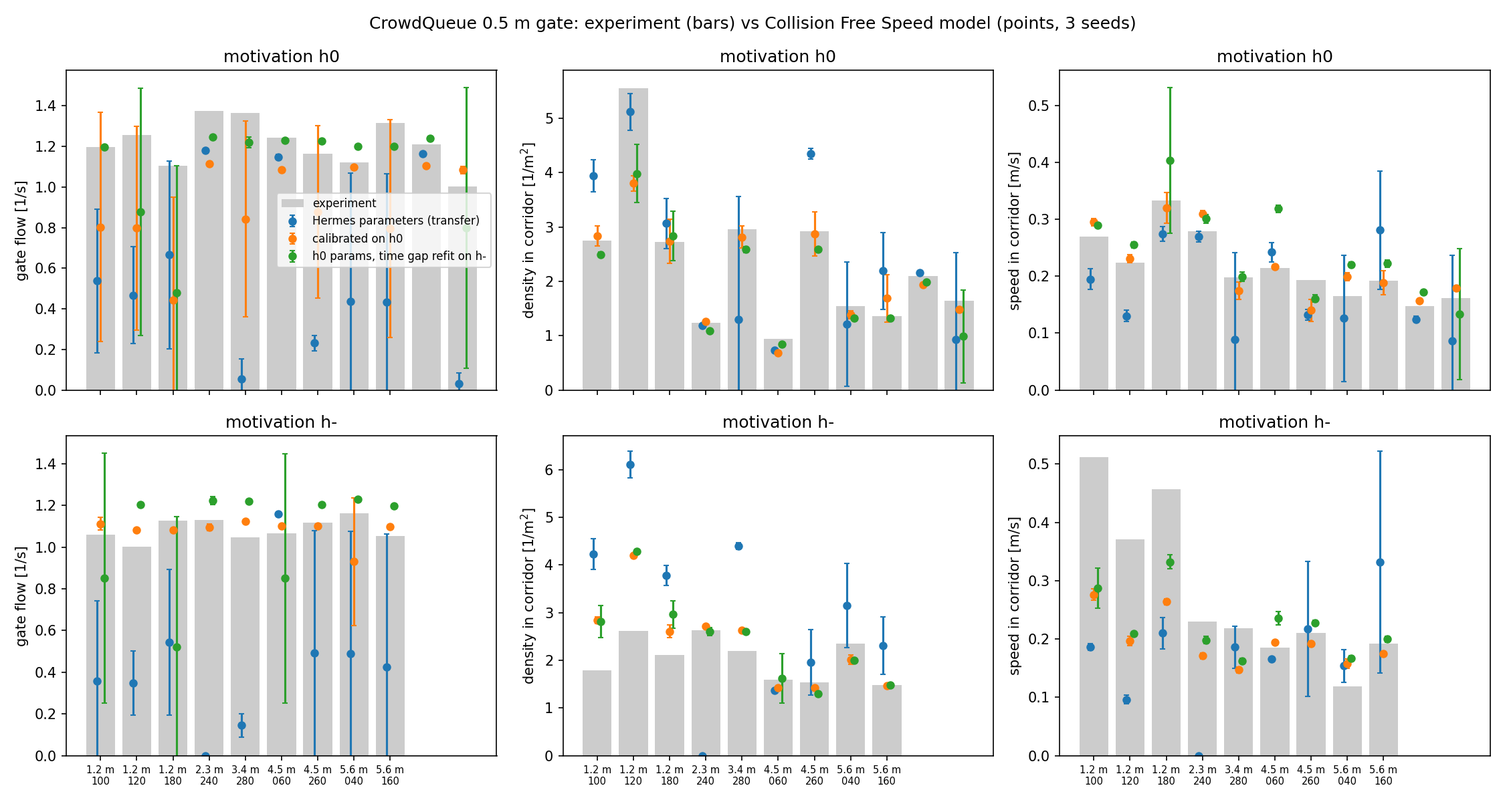
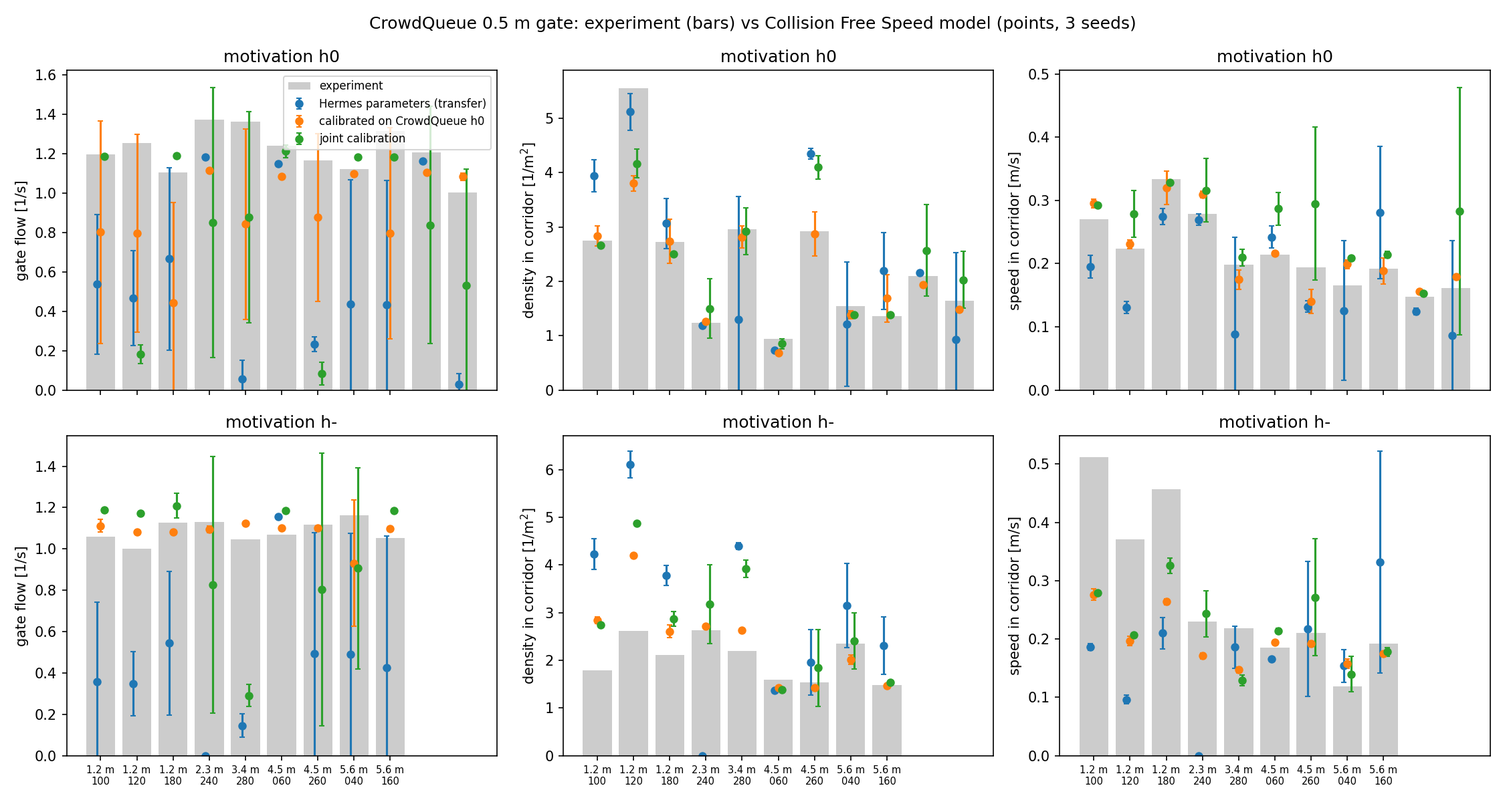
Add semicircle validation, joint calibration and lessons section

diff --git a/public/notes/dakota-calibration/index.html b/public/notes/dakota-calibration/index.html
@@ -32,7 +32,7 @@
   <meta itemprop="description" content="Validation is the step everyone agrees on and few do. We took an open bottleneck experiment, an open model and an open calibration toolkit, and ran the whole procedure, from screening to held-out validation, in a way anyone can repeat.">
   <meta itemprop="datePublished" content="2026-09-05T00:00:00+00:00">
   <meta itemprop="dateModified" content="2026-09-05T00:00:00+00:00">
-  <meta itemprop="wordCount" content="3230">
+  <meta itemprop="wordCount" content="3974">
   <meta name="twitter:card" content="summary">
   <meta name="twitter:title" content="How do you validate a pedestrian model against real data?">
   <meta name="twitter:description" content="Validation is the step everyone agrees on and few do. We took an open bottleneck experiment, an open model and an open calibration toolkit, and ran the whole procedure, from screening to held-out validation, in a way anyone can repeat.">
@@ -282,6 +282,18 @@
                 href="#step-6--a-second-experiment-and-where-the-model-stops"
                 class="hx-flex hx-rounded hx-px-2 hx-py-1.5 hx-text-sm hx-transition-colors [word-break:break-word] hx-cursor-pointer [-webkit-tap-highlight-color:transparent] [-webkit-touch-callout:none] contrast-more:hx-border hx-gap-2 before:hx-opacity-25 before:hx-content-['#'] hx-text-gray-500 hover:hx-bg-gray-100 hover:hx-text-gray-900 dark:hx-text-neutral-400 dark:hover:hx-bg-primary-100/5 dark:hover:hx-text-gray-50 contrast-more:hx-text-gray-900 contrast-more:dark:hx-text-gray-50 contrast-more:hx-border-transparent contrast-more:hover:hx-border-gray-900 contrast-more:dark:hover:hx-border-gray-50"
               >Step 6 — a second experiment, and where the model stops</a>
+            </li>
+          <li>
+              <a
+                href="#step-7--a-third-experiment-without-barriers"
+                class="hx-flex hx-rounded hx-px-2 hx-py-1.5 hx-text-sm hx-transition-colors [word-break:break-word] hx-cursor-pointer [-webkit-tap-highlight-color:transparent] [-webkit-touch-callout:none] contrast-more:hx-border hx-gap-2 before:hx-opacity-25 before:hx-content-['#'] hx-text-gray-500 hover:hx-bg-gray-100 hover:hx-text-gray-900 dark:hx-text-neutral-400 dark:hover:hx-bg-primary-100/5 dark:hover:hx-text-gray-50 contrast-more:hx-text-gray-900 contrast-more:dark:hx-text-gray-50 contrast-more:hx-border-transparent contrast-more:hover:hx-border-gray-900 contrast-more:dark:hover:hx-border-gray-50"
+              >Step 7 — a third experiment, without barriers</a>
+            </li>
+          <li>
+              <a
+                href="#what-changed-between-the-calibrations-and-what-it-means-for-simulations"
+                class="hx-flex hx-rounded hx-px-2 hx-py-1.5 hx-text-sm hx-transition-colors [word-break:break-word] hx-cursor-pointer [-webkit-tap-highlight-color:transparent] [-webkit-touch-callout:none] contrast-more:hx-border hx-gap-2 before:hx-opacity-25 before:hx-content-['#'] hx-text-gray-500 hover:hx-bg-gray-100 hover:hx-text-gray-900 dark:hx-text-neutral-400 dark:hover:hx-bg-primary-100/5 dark:hover:hx-text-gray-50 contrast-more:hx-text-gray-900 contrast-more:dark:hx-text-gray-50 contrast-more:hx-border-transparent contrast-more:hover:hx-border-gray-900 contrast-more:dark:hover:hx-border-gray-50"
+              >What changed between the calibrations, and what it means for simulations</a>
             </li>
           <li>
               <a
@@ -623,6 +635,14 @@
         </a>
       </li>
       <li class="hx-my-2 hx-scroll-my-6 hx-scroll-py-6">
+        <a class="hx-font-semibold hx-inline-block hx-text-gray-500 hover:hx-text-gray-900 dark:hx-text-gray-400 dark:hover:hx-text-gray-300 contrast-more:hx-text-gray-900 contrast-more:hx-underline contrast-more:dark:hx-text-gray-50 hx-w-full hx-break-words" href="#step-7--a-third-experiment-without-barriers">Step 7 — a third experiment, without barriers
+        </a>
+      </li>
+      <li class="hx-my-2 hx-scroll-my-6 hx-scroll-py-6">
+        <a class="hx-font-semibold hx-inline-block hx-text-gray-500 hover:hx-text-gray-900 dark:hx-text-gray-400 dark:hover:hx-text-gray-300 contrast-more:hx-text-gray-900 contrast-more:hx-underline contrast-more:dark:hx-text-gray-50 hx-w-full hx-break-words" href="#what-changed-between-the-calibrations-and-what-it-means-for-simulations">What changed between the calibrations, and what it means for simulations
+        </a>
+      </li>
+      <li class="hx-my-2 hx-scroll-my-6 hx-scroll-py-6">
         <a class="hx-font-semibold hx-inline-block hx-text-gray-500 hover:hx-text-gray-900 dark:hx-text-gray-400 dark:hover:hx-text-gray-300 contrast-more:hx-text-gray-900 contrast-more:hx-underline contrast-more:dark:hx-text-gray-50 hx-w-full hx-break-words" href="#what-we-learned-about-validating">What we learned about validating
         </a>
       </li>
@@ -878,16 +898,35 @@ responses
 </table>
 <p>The largest miss is at 5.0 m, a calibration width: the measured flow jumps above the linear trend there and the model does not follow. Either the widest run is different in a way three scalar observables cannot see, or the model&rsquo;s flow really is linear in the width. That is a question about the model, and now a well-posed one.</p>
 <h2>Step 6 — a second experiment, and where the model stops<span class="hx-absolute -hx-mt-20" id="step-6--a-second-experiment-and-where-the-model-stops"></span>
-    <a href="#step-6--a-second-experiment-and-where-the-model-stops" class="subheading-anchor" aria-label="Permalink for this section"></a></h2><p>A calibration is only validated within the domain it was tested in. To find the edge of that domain we took a second open dataset, the <a href="https://ped.fz-juelich.de/db/doku.php?id=crowdqueue" target="_blank" rel="noopener">CrowdQueue experiment</a> from Wuppertal 2018 (Adrian et al. 2020): the same kind of crowd in front of an entrance, but through a 0.5 m gate instead of a 2.4 to 5 m opening, in corridors from 1.2 to 5.6 m wide, with the participants&rsquo; motivation varied between runs. The archive files carry the full geometry and everyone&rsquo;s starting position, so the simulation starts from the measured first frame of each run.</p>
-<p>First the transfer test: the Hermes parameters, applied to the 21 usable runs without any refitting. The model reproduces the gate flow in five of them and clogs at the funnel in the rest, in three runs to a standstill. The weak, long-range neighbor repulsion that fits a wide bottleneck lets circular agents form stable arches in a half-metre gap. No amount of validation on Hermes could have shown this, and one afternoon with a second dataset did.</p>
-<p>Recalibrating on the baseline-motivation runs, with the wall parameters now free because the 1.2 m corridors exercise them, gives a model that reaches a gate flow of about 1.1 per second and stays there. That matches the low-motivation runs, undershoots the baseline runs by 10 to 30 %, still clogs in some seeds of the narrow corridors, and cannot reach the 2.1 per second of the high-motivation run at any time gap without wrecking density and speed. The radius went to its lower bound of 0.10 m, which is the optimizer&rsquo;s way of pushing round agents through an opening that real people pass by turning their shoulders. Refitting the time gap on the low-motivation runs moved it in the wrong direction, so motivation is not a time gap in this model either.</p>
+    <a href="#step-6--a-second-experiment-and-where-the-model-stops" class="subheading-anchor" aria-label="Permalink for this section"></a></h2><p>A calibration is only validated within the domain it was tested in. To find the edge of that domain we took a second open dataset, the <a href="https://ped.fz-juelich.de/db/doku.php?id=crowdqueue" target="_blank" rel="noopener">CrowdQueue experiment</a> from Wuppertal 2018 (Adrian et al. 2020): a crowd in front of an entrance again, but through a 0.5 m gate instead of a 2.4 to 5 m opening, in corridors from 1.2 to 5.6 m wide. The archive files carry the full geometry and everyone&rsquo;s starting position, so each simulation starts from the measured first frame of its run.</p>
+<p>The transfer test comes first: the Hermes parameters applied to the 21 usable runs without refitting. The model reproduces the gate flow in five of them and clogs at the funnel in the rest, in three runs to a standstill. The weak, long-range neighbor repulsion that fits a wide bottleneck lets round agents form stable arches in a half-metre gap. Recalibrating on the baseline runs, with the wall parameters free because the 1.2 m corridors exercise them, gives a model that reaches about 1.1 persons per second and stays there: right for the low-motivation runs, 10 to 30 % low for the baseline runs, still clogging in some seeds of the narrow corridors, and unable to reach the 2.1 per second of the high-motivation run at any time gap. The radius went to its lower bound, the optimizer&rsquo;s way of pushing round agents through an opening that people pass by turning their shoulders.</p>
 <figure><img src="/notes/dakota-calibration/fig6.png"
-    alt="CrowdQueue: experiment (bars) against three parameter sets, three seeds each. Top: baseline motivation, bottom: low motivation, columns ordered by corridor width. The Hermes parameters (blue) clog in most runs; the recalibrated model (orange) reaches the gate flow in the wide corridors and stalls in the narrow ones; the time-gap refit (green) changes little."><figcaption>
-      <p>CrowdQueue: experiment (bars) against three parameter sets, three seeds each. Top: baseline motivation, bottom: low motivation, columns ordered by corridor width. The Hermes parameters (blue) clog in most runs; the recalibrated model (orange) reaches the gate flow in the wide corridors and stalls in the narrow ones; the time-gap refit (green) changes little.</p>
+    alt="CrowdQueue: experiment (bars) against the Hermes parameters (blue), the model recalibrated on CrowdQueue (orange) and the joint calibration (green), three seeds each, columns ordered by corridor width. Top: baseline motivation, bottom: low motivation."><figcaption>
+      <p>CrowdQueue: experiment (bars) against the Hermes parameters (blue), the model recalibrated on CrowdQueue (orange) and the joint calibration (green), three seeds each, columns ordered by corridor width. Top: baseline motivation, bottom: low motivation.</p>
     </figcaption>
 </figure>
 
-<p>That is the domain boundary, stated in numbers: this model, calibrated this way, is valid for wide bottlenecks in a dense crowd and is not valid for single-file passage through a narrow gate, where its circular body and its clogging behaviour are the limiting factors, not its parameters.</p>
+<p>That is the domain boundary in numbers: this model, calibrated this way, is valid for wide bottlenecks in a dense crowd and not for single-file passage through a narrow gate, where its circular body and its clogging are the limiting factors, not its parameters.</p>
+<h2>Step 7 — a third experiment, without barriers<span class="hx-absolute -hx-mt-20" id="step-7--a-third-experiment-without-barriers"></span>
+    <a href="#step-7--a-third-experiment-without-barriers" class="subheading-anchor" aria-label="Permalink for this section"></a></h2><p>The last test uses the <a href="https://ped.fz-juelich.de/da/doku.php?id=entrance_semicircle" target="_blank" rel="noopener">BaSiGo entrance experiment</a> from 2013 (Sieben et al. 2017): an entrance with two half-metre lanes and no guiding barriers, 319 people told that their favourite artist is playing and they want to be first in. Nothing was fitted to it. The crowd shape is entirely the model&rsquo;s own doing, which makes it the kind of validation Liao et al. (2017) asked for, a spatial profile rather than a number. People enter the camera view during the run, so the simulation injects each agent at the time and place where the data first see them, and everything after that is the model.</p>
+<figure><img src="/notes/dakota-calibration/fig7.png"
+    alt="Time-averaged density in front of the entrance, 20 to 110 s into the run: experiment against the parameter sets from the other two calibrations. Grey: the entrance barriers. The CrowdQueue parameters are missing because every seed pushed an agent through the wall."><figcaption>
+      <p>Time-averaged density in front of the entrance, 20 to 110 s into the run: experiment against the parameter sets from the other two calibrations. Grey: the entrance barriers. The CrowdQueue parameters are missing because every seed pushed an agent through the wall.</p>
+    </figcaption>
+</figure>
+
+<p>The Hermes parameters produce a semicircle, but a thin one: peak densities around 6 per square metre where the experiment reaches 10, and an entrance flow of 1.3 persons per second where the crowd, pushing to be first, achieved 0.6. The model is too polite and too fast: it does not reproduce the pressure that makes the real entrance slower than an orderly queue would be. The CrowdQueue parameters, with their weak wall repulsion, fail outright: in every seed the crowd pushes an agent through the entrance wall and the simulation stops. The joint parameters land in between and, tellingly, not in one place: two seeds drain the crowd at 1.2 persons per second and one clogs after 63, so the average of 0.9 is an average of two different behaviours.</p>
+<h2>What changed between the calibrations, and what it means for simulations<span class="hx-absolute -hx-mt-20" id="what-changed-between-the-calibrations-and-what-it-means-for-simulations"></span>
+    <a href="#what-changed-between-the-calibrations-and-what-it-means-for-simulations" class="subheading-anchor" aria-label="Permalink for this section"></a></h2><p>It is worth being plain about what happened to the &ldquo;calibrated model&rdquo; over the course of this note. After Hermes we had a parameter set that reproduced flow, density and speed at five bottleneck widths, two of them unseen, to within ten percent. That set clogged at a half-metre gate in three quarters of the CrowdQueue runs. The set calibrated on CrowdQueue reached the gate flow in wide corridors, stalled in narrow ones, could not reproduce a motivated crowd, and pushed agents through walls at the unguided entrance. The joint calibration on Hermes and CrowdQueue together, the single best compromise Dakota could find, overshoots the Hermes flow by 15 to 25 % at four of five widths, clogs in four of the CrowdQueue runs, and is bimodal at the entrance. There is no parameter set for this model that covers both regimes; the compromise is worse than either specialist in its own regime. The one parameter that was actually measured, the free speed, was the one the optimizer most wanted to change.</p>
+<p>None of this is a verdict on the Collision Free Speed model in particular. It is what validation looks like when it is done across regimes instead of within one, and the same pattern would appear for any pedestrian model with a handful of scalar parameters and round agents. The practical consequences, for anyone who runs pedestrian simulations for a living:</p>
+<ul>
+<li><strong>A calibration is a statement about a regime, not about a model.</strong> Parameters fitted to wide bottlenecks are parameters for wide bottlenecks. Using them for a turnstile, a narrow door or an unguided entrance is an extrapolation, and this note shows how far it can be off: not by percent, but by clogging or not clogging.</li>
+<li><strong>Report the domain with the parameters.</strong> A parameter set in a paper or a project file should come with the experiments it was fitted to and the ones it was tested on. Without that, &ldquo;calibrated&rdquo; is not information.</li>
+<li><strong>Some behaviour is not a parameter.</strong> Motivation changed the measured flow through the same gate by a factor of two. No value of the time gap reproduces that without breaking density and speed. A model that treats a pushing crowd as a faster orderly one will be wrong in exactly the situations that matter for safety.</li>
+<li><strong>Measured quantities beat fitted ones.</strong> Fixing the free speed at its measured value cost a little fit quality and bought a parameter set that means what it says. The fit had been buying its accuracy with an unphysical value.</li>
+<li><strong>Failure modes are results.</strong> A third of the screening runs pushed agents through walls. That region of parameter space is where the model breaks, and it is worth knowing before an engineer lands in it by hand.</li>
+<li><strong>The tooling is the cheap part.</strong> Every calibration and every test here is a text file and a driver script. What is expensive is the honesty of running the test that might fail. Open data makes that test available to everyone, which is the strongest argument for it.</li>
+</ul>
 <h2>What we learned about validating<span class="hx-absolute -hx-mt-20" id="what-we-learned-about-validating"></span>
     <a href="#what-we-learned-about-validating" class="subheading-anchor" aria-label="Permalink for this section"></a></h2><ul>
 <li><strong>State the purpose, then pick the observables.</strong> Flow alone would have passed a model with the wrong density, as it did in 2014. Three observables, one per mechanism, is the minimum.</li>
@@ -910,10 +949,11 @@ responses
 <li>Ronchi, E., Kuligowski, E. D., Reneke, P. A., Peacock, R. D., Nilsson, D. (2013). The process of verification and validation of building fire evacuation models. NIST Technical Note 1822.</li>
 <li>Sargent, R. G. (1984). Simulation model validation. In: Simulation and Model-Based Methodologies: An Integrative View, Springer, 537–555.</li>
 <li>Sargent, R. G. (2008). Verification and validation of simulation models. Proceedings of the Winter Simulation Conference, 157–169.</li>
+<li>Sieben, A., Schumann, J., Seyfried, A. (2017). Collective phenomena in crowds — where pedestrian dynamics need social psychology. PLOS ONE 12(6), e0177328. <a href="https://doi.org/10.1371/journal.pone.0177328" target="_blank" rel="noopener">doi:10.1371/journal.pone.0177328</a>.</li>
 <li>Seyfried, A., Schadschneider, A. (2008). Fundamental diagram and validation of crowd models. ACRI 2008, LNCS 5191, 563–566.</li>
 <li>Seyfried, A., Passon, O., Steffen, B., Boltes, M., Rupprecht, T., Klingsch, W. (2009). New insights into pedestrian flow through bottlenecks. Transportation Science 43, 395–406.</li>
 <li>Tordeux, A., Chraibi, M., Seyfried, A. (2016). Collision-free speed model for pedestrian dynamics. Traffic and Granular Flow &lsquo;15, 225–232.</li>
-<li>Experiment data: Hermes bottleneck experiment, Düsseldorf 2009, <a href="https://doi.org/10.34735/ped.2009.6" target="_blank" rel="noopener">doi:10.34735/ped.2009.6</a>; CrowdQueue experiment, Wuppertal 2018, <a href="https://doi.org/10.34735/ped.2018.1" target="_blank" rel="noopener">doi:10.34735/ped.2018.1</a>. Dakota: Adams et al., Sandia National Laboratories, version 6.24.</li>
+<li>Experiment data: Hermes bottleneck experiment, Düsseldorf 2009, <a href="https://doi.org/10.34735/ped.2009.6" target="_blank" rel="noopener">doi:10.34735/ped.2009.6</a>; CrowdQueue experiment, Wuppertal 2018, <a href="https://doi.org/10.34735/ped.2018.1" target="_blank" rel="noopener">doi:10.34735/ped.2018.1</a>; BaSiGo entrance experiment, Düsseldorf 2013, <a href="https://doi.org/10.34735/ped.2013.2" target="_blank" rel="noopener">doi:10.34735/ped.2013.2</a>. Dakota: Adams et al., Sandia National Laboratories, version 6.24.</li>
 </ul>
 <p>Code, Dakota input files and results: <a href="https://github.com/PedestrianDynamics/jupedsim-dakota-calibration" target="_blank" rel="noopener">github.com/PedestrianDynamics/jupedsim-dakota-calibration</a></p>
 <p><span class="hx-inline-block hx-align-text-bottom icon"><svg height=1em xmlns="http://www.w3.org/2000/svg" fill="none" viewBox="0 0 24 24" stroke-width="2" stroke="currentColor" aria-hidden="true"><path stroke-linecap="round" stroke-linejoin="round" d="M11 5H6a2 2 0 00-2 2v11a2 2 0 002 2h11a2 2 0 002-2v-5m-1.414-9.414a2 2 0 112.828 2.828L11.828 15H9v-2.828l8.586-8.586z"/></svg></span>

diff --git a/content/notes/dakota-calibration/index.md b/content/notes/dakota-calibration/index.md
@@ -149,18 +149,40 @@ The largest miss is at 5.0 m, a calibration width: the measured flow jumps above
 
 ## Step 6 — a second experiment, and where the model stops
 
-A calibration is only validated within the domain it was tested in. To find the edge of that domain we took a second open dataset, the [CrowdQueue experiment](https://ped.fz-juelich.de/db/doku.php?id=crowdqueue) from Wuppertal 2018 (Adrian et al. 2020): the same kind of crowd in front of an entrance, but through a 0.5 m gate instead of a 2.4 to 5 m opening, in corridors from 1.2 to 5.6 m wide, with the participants' motivation varied between runs. The archive files carry the full geometry and everyone's starting position, so the simulation starts from the measured first frame of each run.
+A calibration is only validated within the domain it was tested in. To find the edge of that domain we took a second open dataset, the [CrowdQueue experiment](https://ped.fz-juelich.de/db/doku.php?id=crowdqueue) from Wuppertal 2018 (Adrian et al. 2020): a crowd in front of an entrance again, but through a 0.5 m gate instead of a 2.4 to 5 m opening, in corridors from 1.2 to 5.6 m wide. The archive files carry the full geometry and everyone's starting position, so each simulation starts from the measured first frame of its run.
 
-First the transfer test: the Hermes parameters, applied to the 21 usable runs without any refitting. The model reproduces the gate flow in five of them and clogs at the funnel in the rest, in three runs to a standstill. The weak, long-range neighbor repulsion that fits a wide bottleneck lets circular agents form stable arches in a half-metre gap. No amount of validation on Hermes could have shown this, and one afternoon with a second dataset did.
-
-Recalibrating on the baseline-motivation runs, with the wall parameters now free because the 1.2 m corridors exercise them, gives a model that reaches a gate flow of about 1.1 per second and stays there. That matches the low-motivation runs, undershoots the baseline runs by 10 to 30 %, still clogs in some seeds of the narrow corridors, and cannot reach the 2.1 per second of the high-motivation run at any time gap without wrecking density and speed. The radius went to its lower bound of 0.10 m, which is the optimizer's way of pushing round agents through an opening that real people pass by turning their shoulders. Refitting the time gap on the low-motivation runs moved it in the wrong direction, so motivation is not a time gap in this model either.
+The transfer test comes first: the Hermes parameters applied to the 21 usable runs without refitting. The model reproduces the gate flow in five of them and clogs at the funnel in the rest, in three runs to a standstill. The weak, long-range neighbor repulsion that fits a wide bottleneck lets round agents form stable arches in a half-metre gap. Recalibrating on the baseline runs, with the wall parameters free because the 1.2 m corridors exercise them, gives a model that reaches about 1.1 persons per second and stays there: right for the low-motivation runs, 10 to 30 % low for the baseline runs, still clogging in some seeds of the narrow corridors, and unable to reach the 2.1 per second of the high-motivation run at any time gap. The radius went to its lower bound, the optimizer's way of pushing round agents through an opening that people pass by turning their shoulders.
 
 {{< figure
     src="fig6.png"
-    caption="CrowdQueue: experiment (bars) against three parameter sets, three seeds each. Top: baseline motivation, bottom: low motivation, columns ordered by corridor width. The Hermes parameters (blue) clog in most runs; the recalibrated model (orange) reaches the gate flow in the wide corridors and stalls in the narrow ones; the time-gap refit (green) changes little."
+    caption="CrowdQueue: experiment (bars) against the Hermes parameters (blue), the model recalibrated on CrowdQueue (orange) and the joint calibration (green), three seeds each, columns ordered by corridor width. Top: baseline motivation, bottom: low motivation."
 >}}
 
-That is the domain boundary, stated in numbers: this model, calibrated this way, is valid for wide bottlenecks in a dense crowd and is not valid for single-file passage through a narrow gate, where its circular body and its clogging behaviour are the limiting factors, not its parameters.
+That is the domain boundary in numbers: this model, calibrated this way, is valid for wide bottlenecks in a dense crowd and not for single-file passage through a narrow gate, where its circular body and its clogging are the limiting factors, not its parameters.
+
+## Step 7 — a third experiment, without barriers
+
+The last test uses the [BaSiGo entrance experiment](https://ped.fz-juelich.de/da/doku.php?id=entrance_semicircle) from 2013 (Sieben et al. 2017): an entrance with two half-metre lanes and no guiding barriers, 319 people told that their favourite artist is playing and they want to be first in. Nothing was fitted to it. The crowd shape is entirely the model's own doing, which makes it the kind of validation Liao et al. (2017) asked for, a spatial profile rather than a number. People enter the camera view during the run, so the simulation injects each agent at the time and place where the data first see them, and everything after that is the model.
+
+{{< figure
+    src="fig7.png"
+    caption="Time-averaged density in front of the entrance, 20 to 110 s into the run: experiment against the parameter sets from the other two calibrations. Grey: the entrance barriers. The CrowdQueue parameters are missing because every seed pushed an agent through the wall."
+>}}
+
+The Hermes parameters produce a semicircle, but a thin one: peak densities around 6 per square metre where the experiment reaches 10, and an entrance flow of 1.3 persons per second where the crowd, pushing to be first, achieved 0.6. The model is too polite and too fast: it does not reproduce the pressure that makes the real entrance slower than an orderly queue would be. The CrowdQueue parameters, with their weak wall repulsion, fail outright: in every seed the crowd pushes an agent through the entrance wall and the simulation stops. The joint parameters land in between and, tellingly, not in one place: two seeds drain the crowd at 1.2 persons per second and one clogs after 63, so the average of 0.9 is an average of two different behaviours.
+
+## What changed between the calibrations, and what it means for simulations
+
+It is worth being plain about what happened to the "calibrated model" over the course of this note. After Hermes we had a parameter set that reproduced flow, density and speed at five bottleneck widths, two of them unseen, to within ten percent. That set clogged at a half-metre gate in three quarters of the CrowdQueue runs. The set calibrated on CrowdQueue reached the gate flow in wide corridors, stalled in narrow ones, could not reproduce a motivated crowd, and pushed agents through walls at the unguided entrance. The joint calibration on Hermes and CrowdQueue together, the single best compromise Dakota could find, overshoots the Hermes flow by 15 to 25 % at four of five widths, clogs in four of the CrowdQueue runs, and is bimodal at the entrance. There is no parameter set for this model that covers both regimes; the compromise is worse than either specialist in its own regime. The one parameter that was actually measured, the free speed, was the one the optimizer most wanted to change.
+
+None of this is a verdict on the Collision Free Speed model in particular. It is what validation looks like when it is done across regimes instead of within one, and the same pattern would appear for any pedestrian model with a handful of scalar parameters and round agents. The practical consequences, for anyone who runs pedestrian simulations for a living:
+
+- **A calibration is a statement about a regime, not about a model.** Parameters fitted to wide bottlenecks are parameters for wide bottlenecks. Using them for a turnstile, a narrow door or an unguided entrance is an extrapolation, and this note shows how far it can be off: not by percent, but by clogging or not clogging.
+- **Report the domain with the parameters.** A parameter set in a paper or a project file should come with the experiments it was fitted to and the ones it was tested on. Without that, "calibrated" is not information.
+- **Some behaviour is not a parameter.** Motivation changed the measured flow through the same gate by a factor of two. No value of the time gap reproduces that without breaking density and speed. A model that treats a pushing crowd as a faster orderly one will be wrong in exactly the situations that matter for safety.
+- **Measured quantities beat fitted ones.** Fixing the free speed at its measured value cost a little fit quality and bought a parameter set that means what it says. The fit had been buying its accuracy with an unphysical value.
+- **Failure modes are results.** A third of the screening runs pushed agents through walls. That region of parameter space is where the model breaks, and it is worth knowing before an engineer lands in it by hand.
+- **The tooling is the cheap part.** Every calibration and every test here is a text file and a driver script. What is expensive is the honesty of running the test that might fail. Open data makes that test available to everyone, which is the strongest argument for it.
 
 ## What we learned about validating
 
@@ -187,10 +209,11 @@ That has consequences beyond convenience. Anyone can rerun the calibration with 
 - Ronchi, E., Kuligowski, E. D., Reneke, P. A., Peacock, R. D., Nilsson, D. (2013). The process of verification and validation of building fire evacuation models. NIST Technical Note 1822.
 - Sargent, R. G. (1984). Simulation model validation. In: Simulation and Model-Based Methodologies: An Integrative View, Springer, 537–555.
 - Sargent, R. G. (2008). Verification and validation of simulation models. Proceedings of the Winter Simulation Conference, 157–169.
+- Sieben, A., Schumann, J., Seyfried, A. (2017). Collective phenomena in crowds — where pedestrian dynamics need social psychology. PLOS ONE 12(6), e0177328. [doi:10.1371/journal.pone.0177328](https://doi.org/10.1371/journal.pone.0177328).
 - Seyfried, A., Schadschneider, A. (2008). Fundamental diagram and validation of crowd models. ACRI 2008, LNCS 5191, 563–566.
 - Seyfried, A., Passon, O., Steffen, B., Boltes, M., Rupprecht, T., Klingsch, W. (2009). New insights into pedestrian flow through bottlenecks. Transportation Science 43, 395–406.
 - Tordeux, A., Chraibi, M., Seyfried, A. (2016). Collision-free speed model for pedestrian dynamics. Traffic and Granular Flow '15, 225–232.
-- Experiment data: Hermes bottleneck experiment, Düsseldorf 2009, [doi:10.34735/ped.2009.6](https://doi.org/10.34735/ped.2009.6); CrowdQueue experiment, Wuppertal 2018, [doi:10.34735/ped.2018.1](https://doi.org/10.34735/ped.2018.1). Dakota: Adams et al., Sandia National Laboratories, version 6.24.
+- Experiment data: Hermes bottleneck experiment, Düsseldorf 2009, [doi:10.34735/ped.2009.6](https://doi.org/10.34735/ped.2009.6); CrowdQueue experiment, Wuppertal 2018, [doi:10.34735/ped.2018.1](https://doi.org/10.34735/ped.2018.1); BaSiGo entrance experiment, Düsseldorf 2013, [doi:10.34735/ped.2013.2](https://doi.org/10.34735/ped.2013.2). Dakota: Adams et al., Sandia National Laboratories, version 6.24.
 
 Code, Dakota input files and results: [github.com/PedestrianDynamics/jupedsim-dakota-calibration](https://github.com/PedestrianDynamics/jupedsim-dakota-calibration)
 
